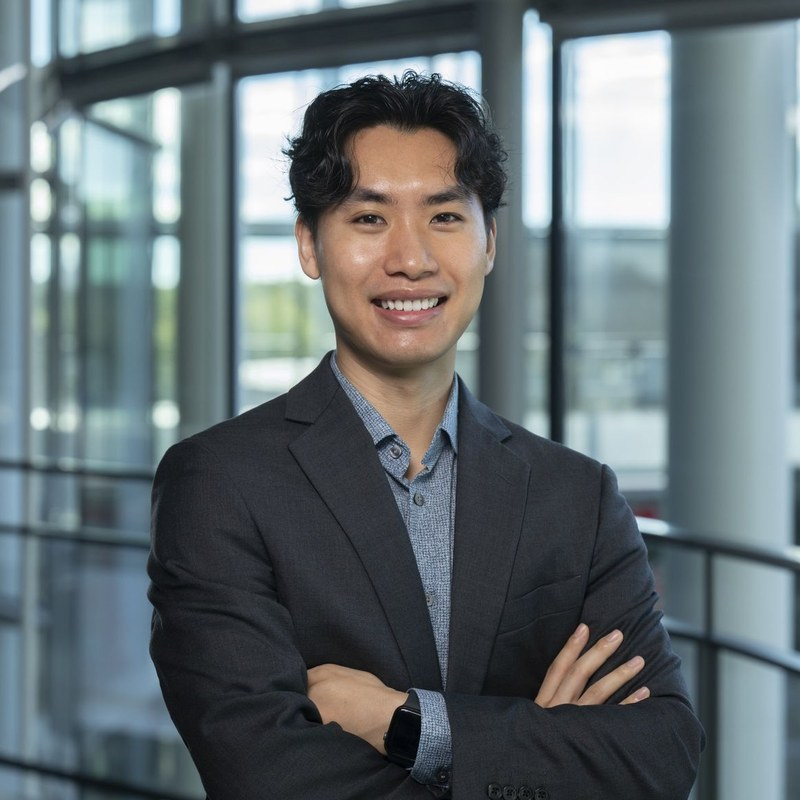
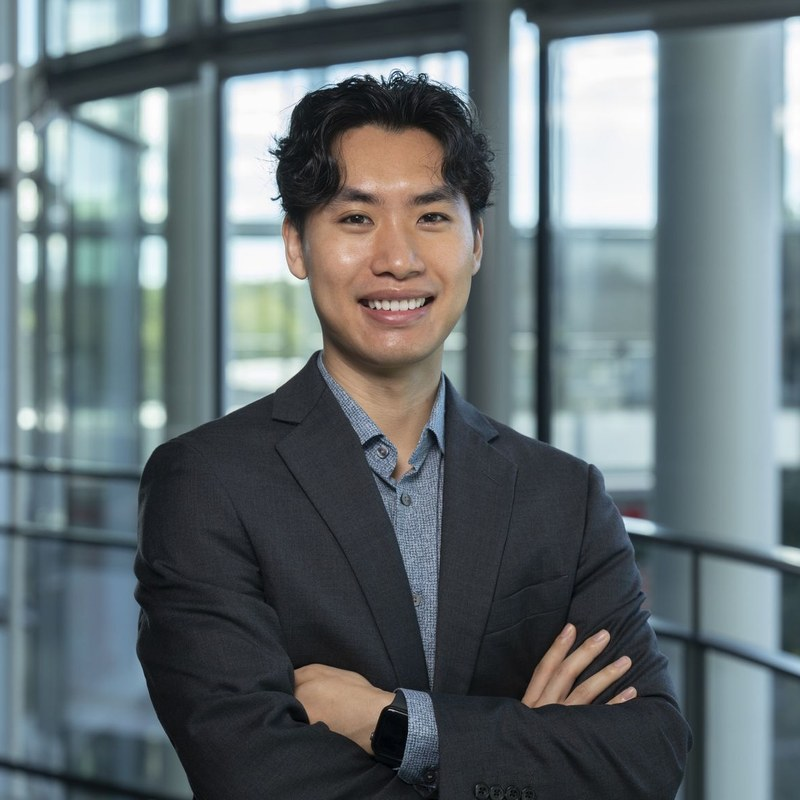
Shift headshot crop to split head and body centering
Claude-Session: https://claude.ai/code/session_01PByGG3yHFrNp8P81ibYnE8

diff --git a/index.html b/index.html
@@ -72,7 +72,7 @@ document.documentElement.setAttribute("data-theme",t==="light"?"light":"dark");}
         </ul>
       </div>
 
-      <img class="hero-photo" src="assets/img/headshot.jpg?v=6" width="260" height="260"
+      <img class="hero-photo" src="assets/img/headshot.jpg?v=7" width="260" height="260"
            alt="Portrait of Lan E. Luo">
     </header>
 
